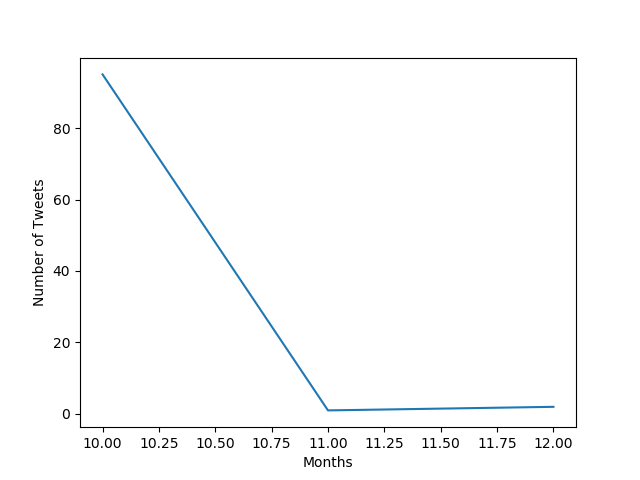
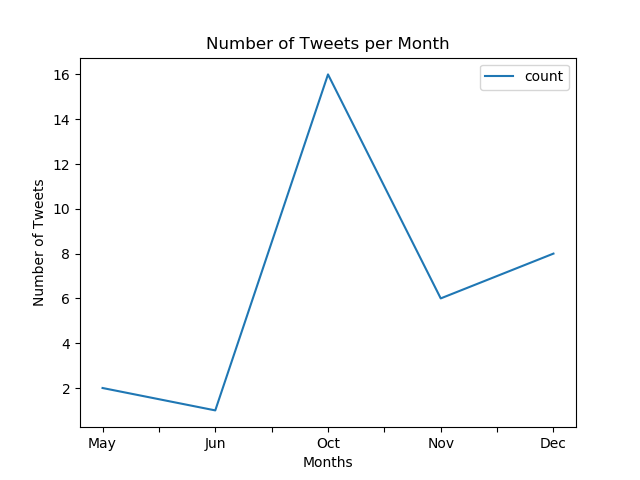
Merge branch 'master' of https://github.com/scressy/ISPTwitterAnaylzer

diff --git a/AtShawAnalysis.py b/AtShawAnalysis.py
@@ -3,6 +3,7 @@ import tweepy
 from tweepy import OAuthHandler
 from textblob import TextBlob
 from datetime import datetime, timedelta
+import calendar
 
 import pandas as pd
 import matplotlib.pyplot as plt
@@ -30,13 +31,19 @@ debug = True
 
 # reference https://plot.ly/pandas/line-charts/
 def get_volume(df):
+
     df['by_month'] = pd.to_datetime(df['tweet_date'], errors='coerce').dt.month
-    grouped = df.groupby(['by_month'])['by_month'].count()
-    if(debug):
-        print(grouped.to_string())
+    # df['by_month'] = df['by_month'].apply(lambda x: calendar.month_abbr[x])
 
     # separate into month and count
+    # grouped = df.groupby(['by_month'])['by_month'].count()
+    grouped = df.groupby(['by_month'])['by_month'].count().reset_index(name="count")
 
+    # changes month int to month str, does it from ascending order
+    grouped['by_month'] = grouped['by_month'].apply(lambda x: calendar.month_abbr[x])
+
+    if(debug):
+        print(grouped.to_string())
     return grouped
 
 ################################################################################################
@@ -48,7 +55,7 @@ def plot_volume_of_tweets(source,df):
     if not df.empty:
         grouped = get_volume(df)
 
-        fig = grouped.plot()
+        fig = grouped.plot.line(x='by_month', y='count', style='-', title="Number of Tweets per Month")
         fig.set_xlabel("Months")
         fig.set_ylabel("Number of Tweets")
 
